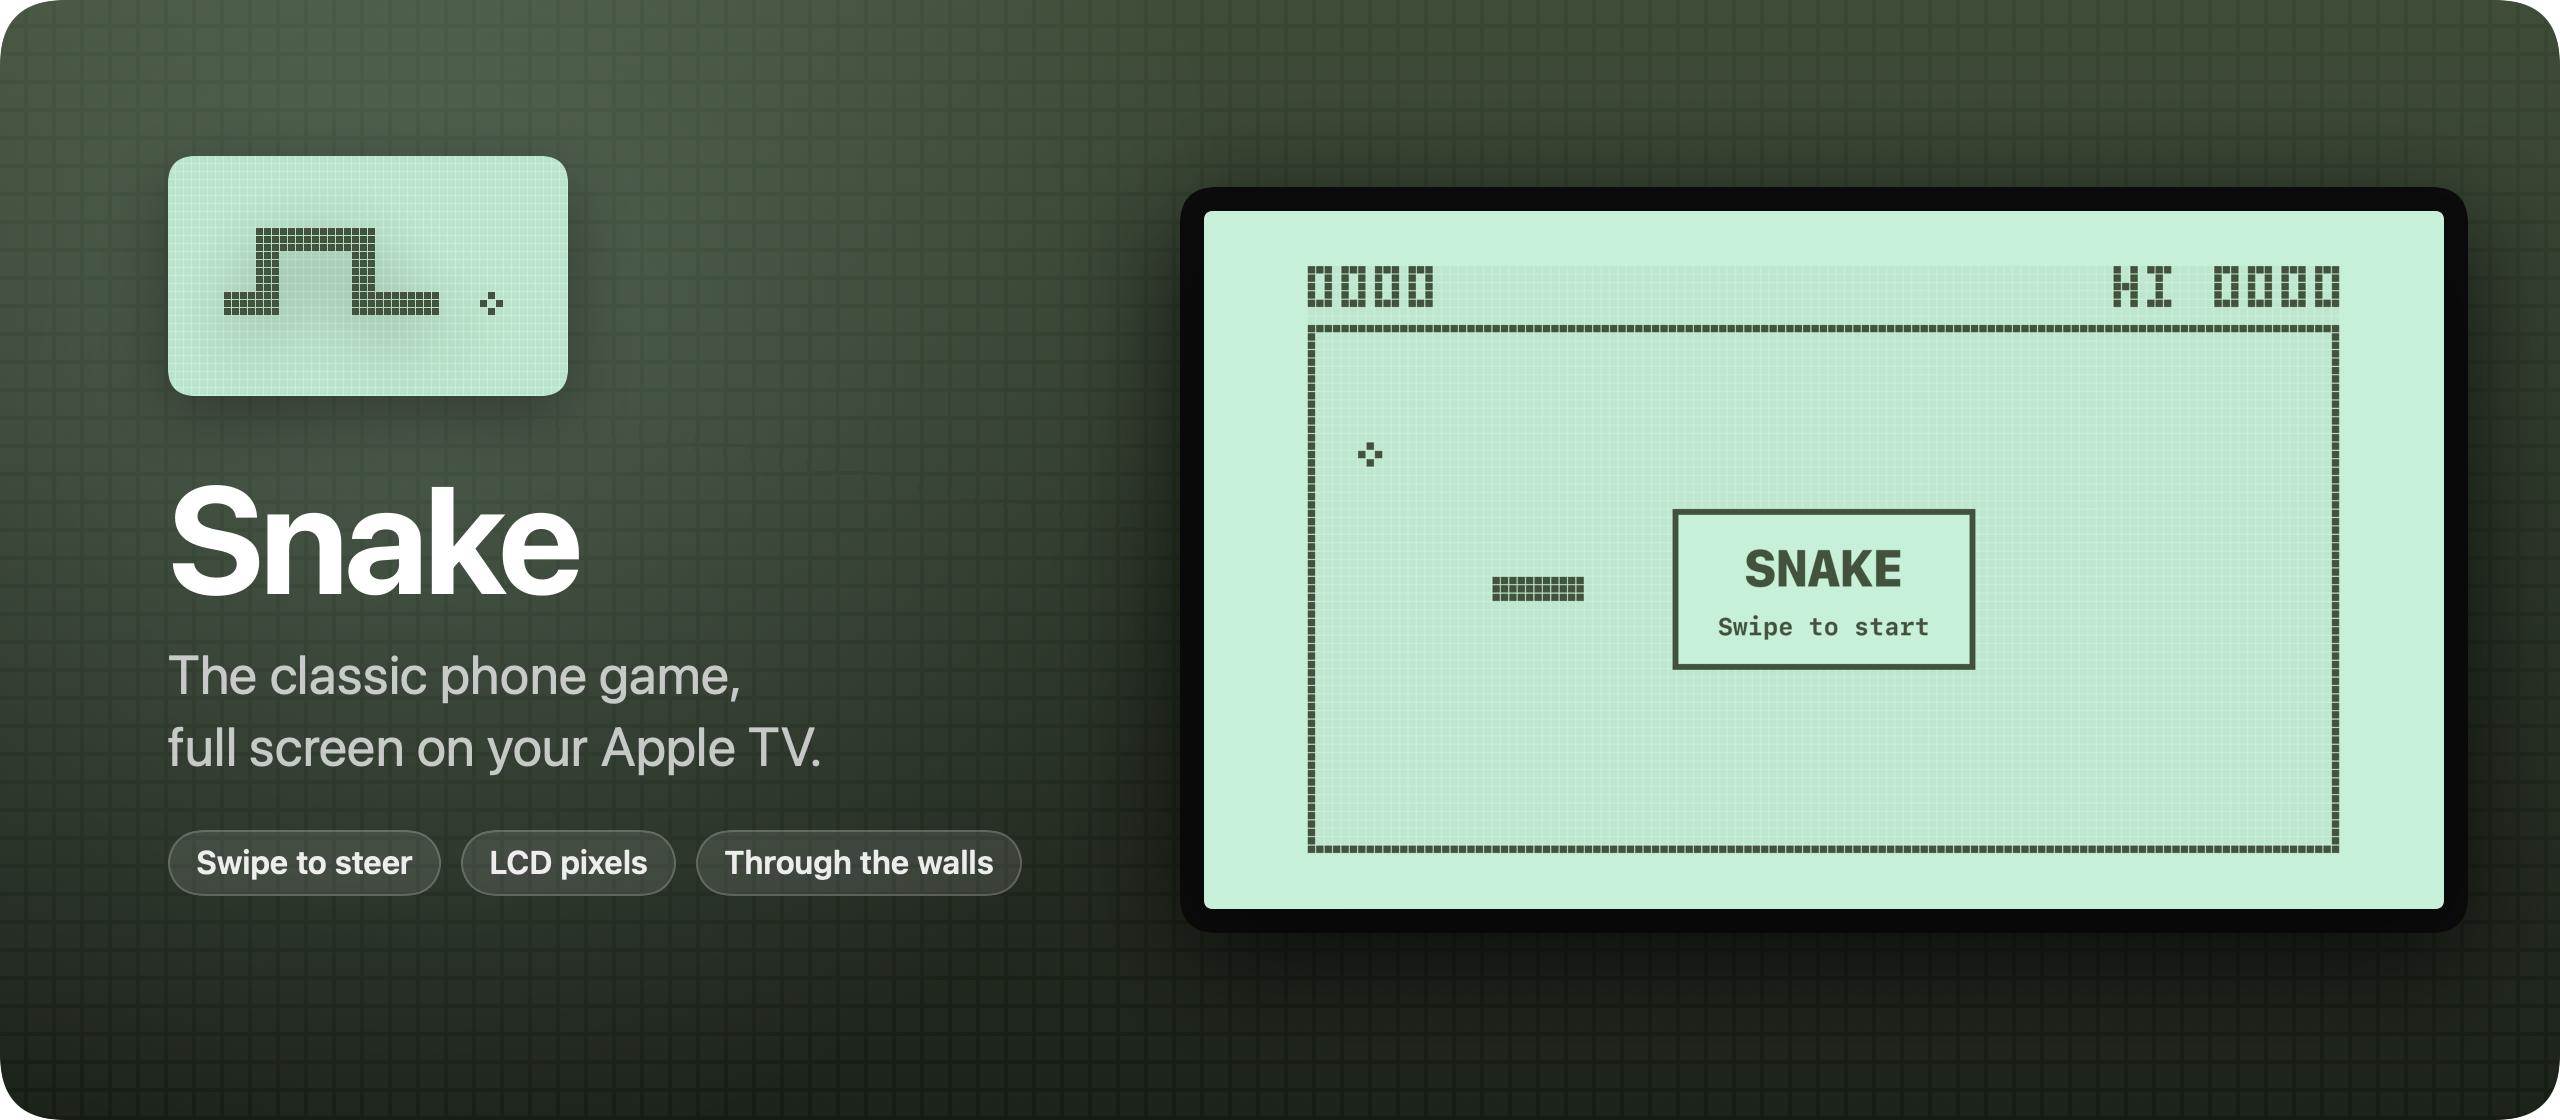
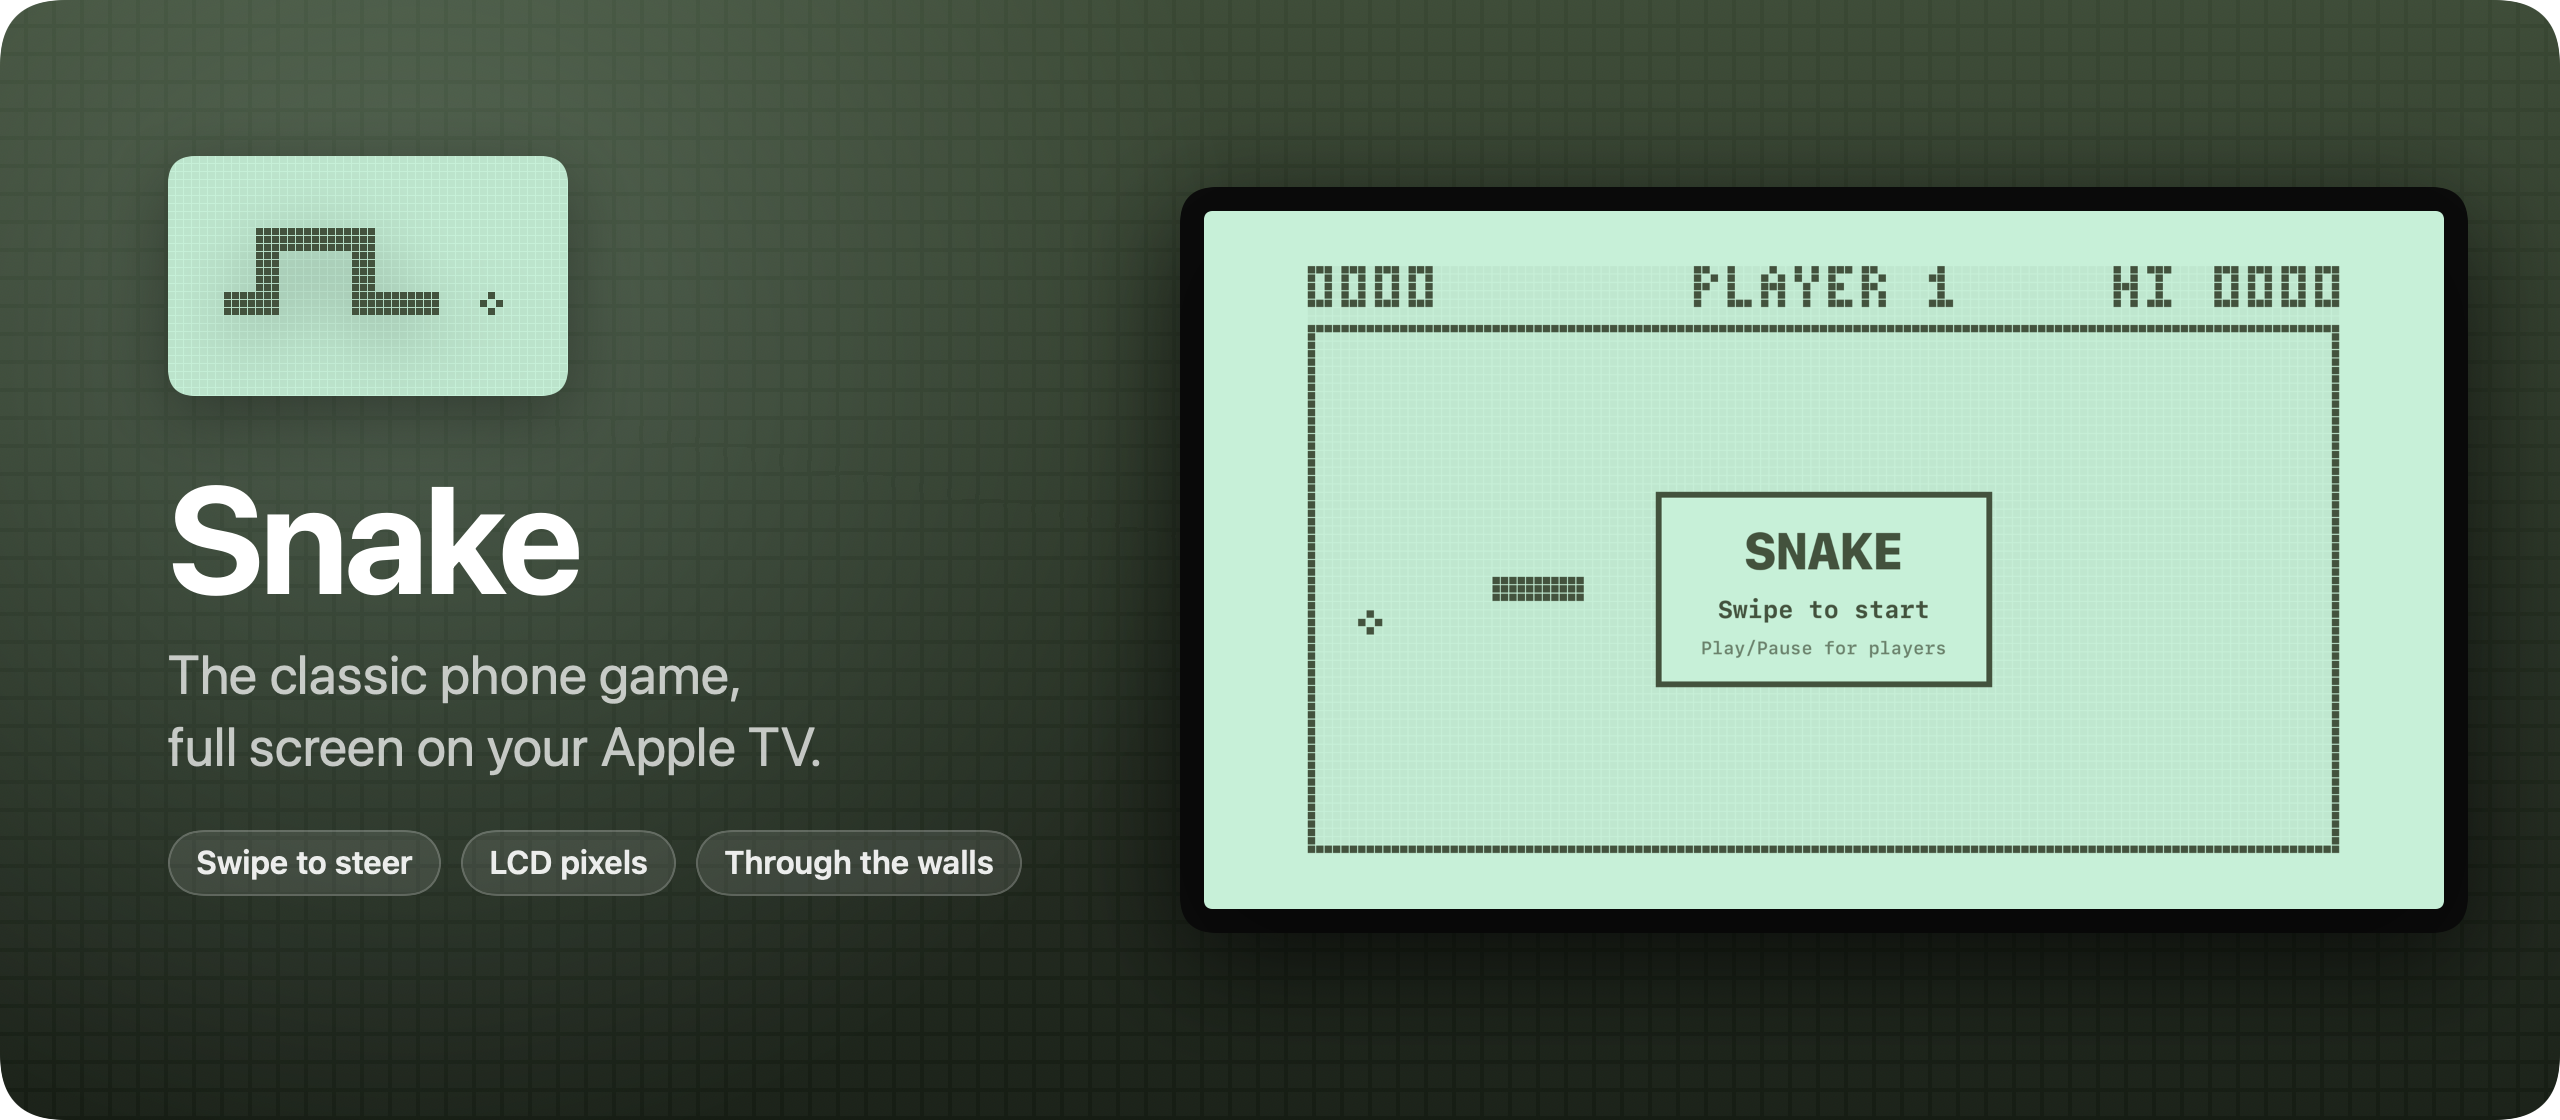
Release Snake 1.1.0

Changed region(s): [[0.625, 0.4375, 0.7812, 0.625], [0.6562, 0.2188, 0.7812, 0.2812]]

diff --git a/README.md b/README.md
@@ -14,7 +14,10 @@ Read the announcement and watch the 30-second demo on my blog: [I built Snake, t
 - The snake keeps the same speed for the whole game, and every piece of food makes it one segment longer
 - Turns queue up, so two quick swipes make a U-turn
 - The snake blinks when it dies
-- Your best score is saved, and shows top right as `HI`
+- Player profiles, each with their own best score, and a scoreboard ranked by best
+- A soft blip when you turn and a coin sound when you eat
+- Twelve pastel screen colors, rotating with each new game
+- Your player name shows above the board, and your best score shows top right as `HI`
 - The game pauses when you leave the app
 
 <img src="docs/screenshot.png" alt="Snake on the Apple TV, with the snake, the food and the start message on a green LCD screen" />
@@ -23,14 +26,14 @@ Read the announcement and watch the 30-second demo on my blog: [I built Snake, t
 
 - **Swipe** up, down, left or right to turn. On the newer Siri Remote, clicking the edges of the clickpad works too. Your first swipe starts the game.
 - **Click** to start, to continue after a pause, and for a new game after game over.
-- **Play/Pause** pauses and resumes.
+- **Play/Pause** pauses and resumes. Between games, it opens the players screen. Click a name to play as that person, hold it to delete it, or choose **Add a player**.
 - **Back**, or **Menu** on older remotes, pauses a running game. When the game isn't running, it goes back to the Home screen.
 
 ## Install it on your Apple TV
 
 The Apple TV can't install apps from a download, and Snake isn't on the App Store. You install it from Xcode on your own Apple TV, which takes a few minutes the first time:
 
-1. Put the Mac and the Apple TV on the same network. On the Apple TV, open **Settings → Remotes and Devices → Remote App and Devices**.
+1. Download [Snake-1.1.0-source.zip](https://github.com/flaviocopes/snake/releases/download/v1.1.0/Snake-1.1.0-source.zip) and unzip it. Put the Mac and the Apple TV on the same network. On the Apple TV, open **Settings → Remotes and Devices → Remote App and Devices**.
 2. In Xcode, open **Window → Devices and Simulators**, click **Pair** next to your Apple TV, and type the code it shows.
 3. Open `Snake.xcodeproj`, choose the `Snake` scheme and your Apple TV, and set your own team under **Signing & Capabilities**.
 4. Press `⌘R`.

diff --git a/AGENTS.md b/AGENTS.md
@@ -3,7 +3,9 @@
 The classic snake game from old mobile phones, full screen on Apple TV. A SwiftUI tvOS app with no dependencies.
 
 - `Snake/SnakeGame.swift`: the rules, with no UI. A 30x15 board, the snake wraps around the edges, turns are queued so two quick swipes make a U-turn, and the speed stays the same all game.
-- `Snake/GameView.swift`: the screen, drawn as a grid of LCD pixels in a `Canvas`: the score in a 3x5 pixel font, the framed board, the food and the snake (3x3 blocks joined by a line of pixels). It also handles the remote: swipe to steer, click to start or continue, Play/Pause to pause, and Back/Menu pauses a running game or goes back to the Home screen otherwise. The best score lives in `@AppStorage("best")`.
+- `Snake/GameView.swift`: the screen, drawn as a grid of LCD pixels in a `Canvas`: the score in a 3x5 pixel font, the framed board, the food and the snake (3x3 blocks joined by a line of pixels). It also handles the remote: swipe to steer, click to start or continue, Play/Pause to pause, and Back/Menu pauses a running game or goes back to the Home screen otherwise. The player name and best score come from `Players`. Twelve screen colors rotate with each new game, with the current color saved as `@AppStorage("screen")`.
+- `Snake/Players.swift` and `Snake/PlayersView.swift`: saved local player profiles, a ranked scoreboard, and controls to add, select or delete players. Existing best scores migrate to PLAYER 1.
+- `Snake/Sounds.swift` and `Snake/Sounds/`: AVAudioPlayer plays the turn and food sounds.
 - `Snake/Assets.xcassets`: the layered Apple TV icon and Top Shelf images, generated by `scripts/render-icon.swift`. The LCD colors there match the ones in `GameView.swift`.
 - `SnakeTests/`: Swift Testing tests for the rules. `SnakeUITests/`: drives the game with `XCUIRemote` and attaches screenshots.
 - `scripts/screenshot.sh` and `scripts/render-banner.swift`: the README's `docs/screenshot.png` and `docs/banner.png`.
